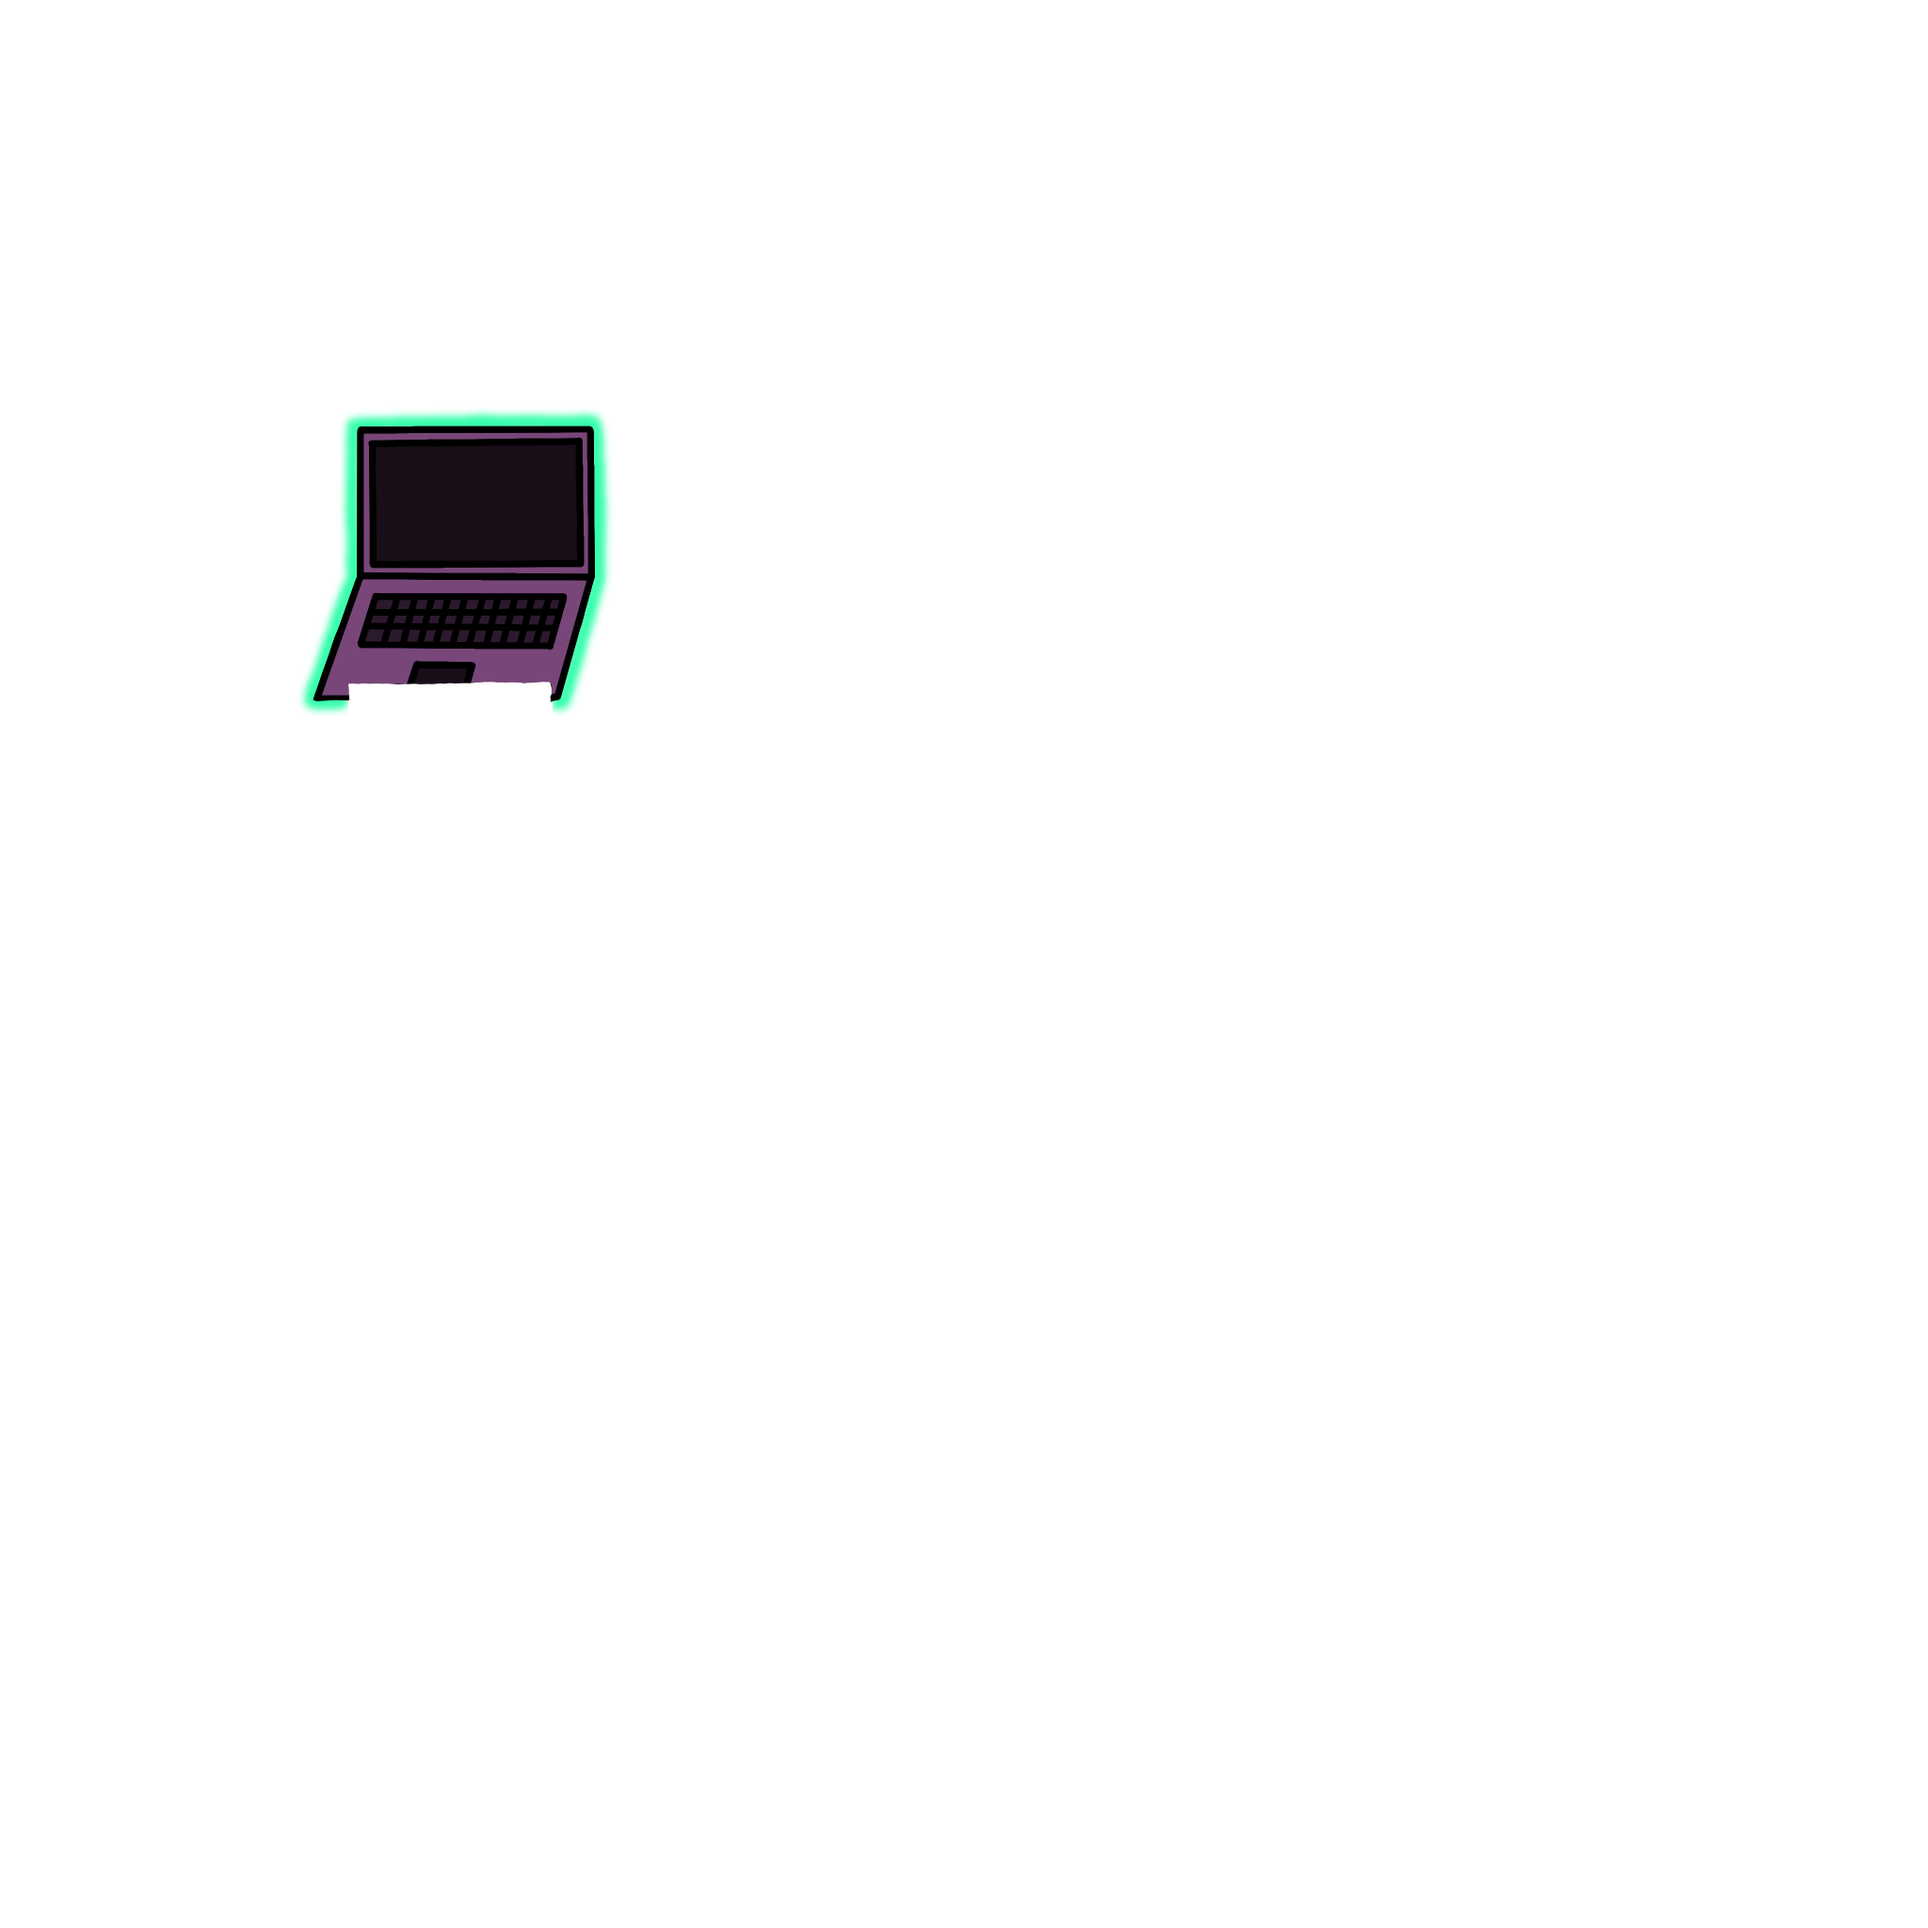
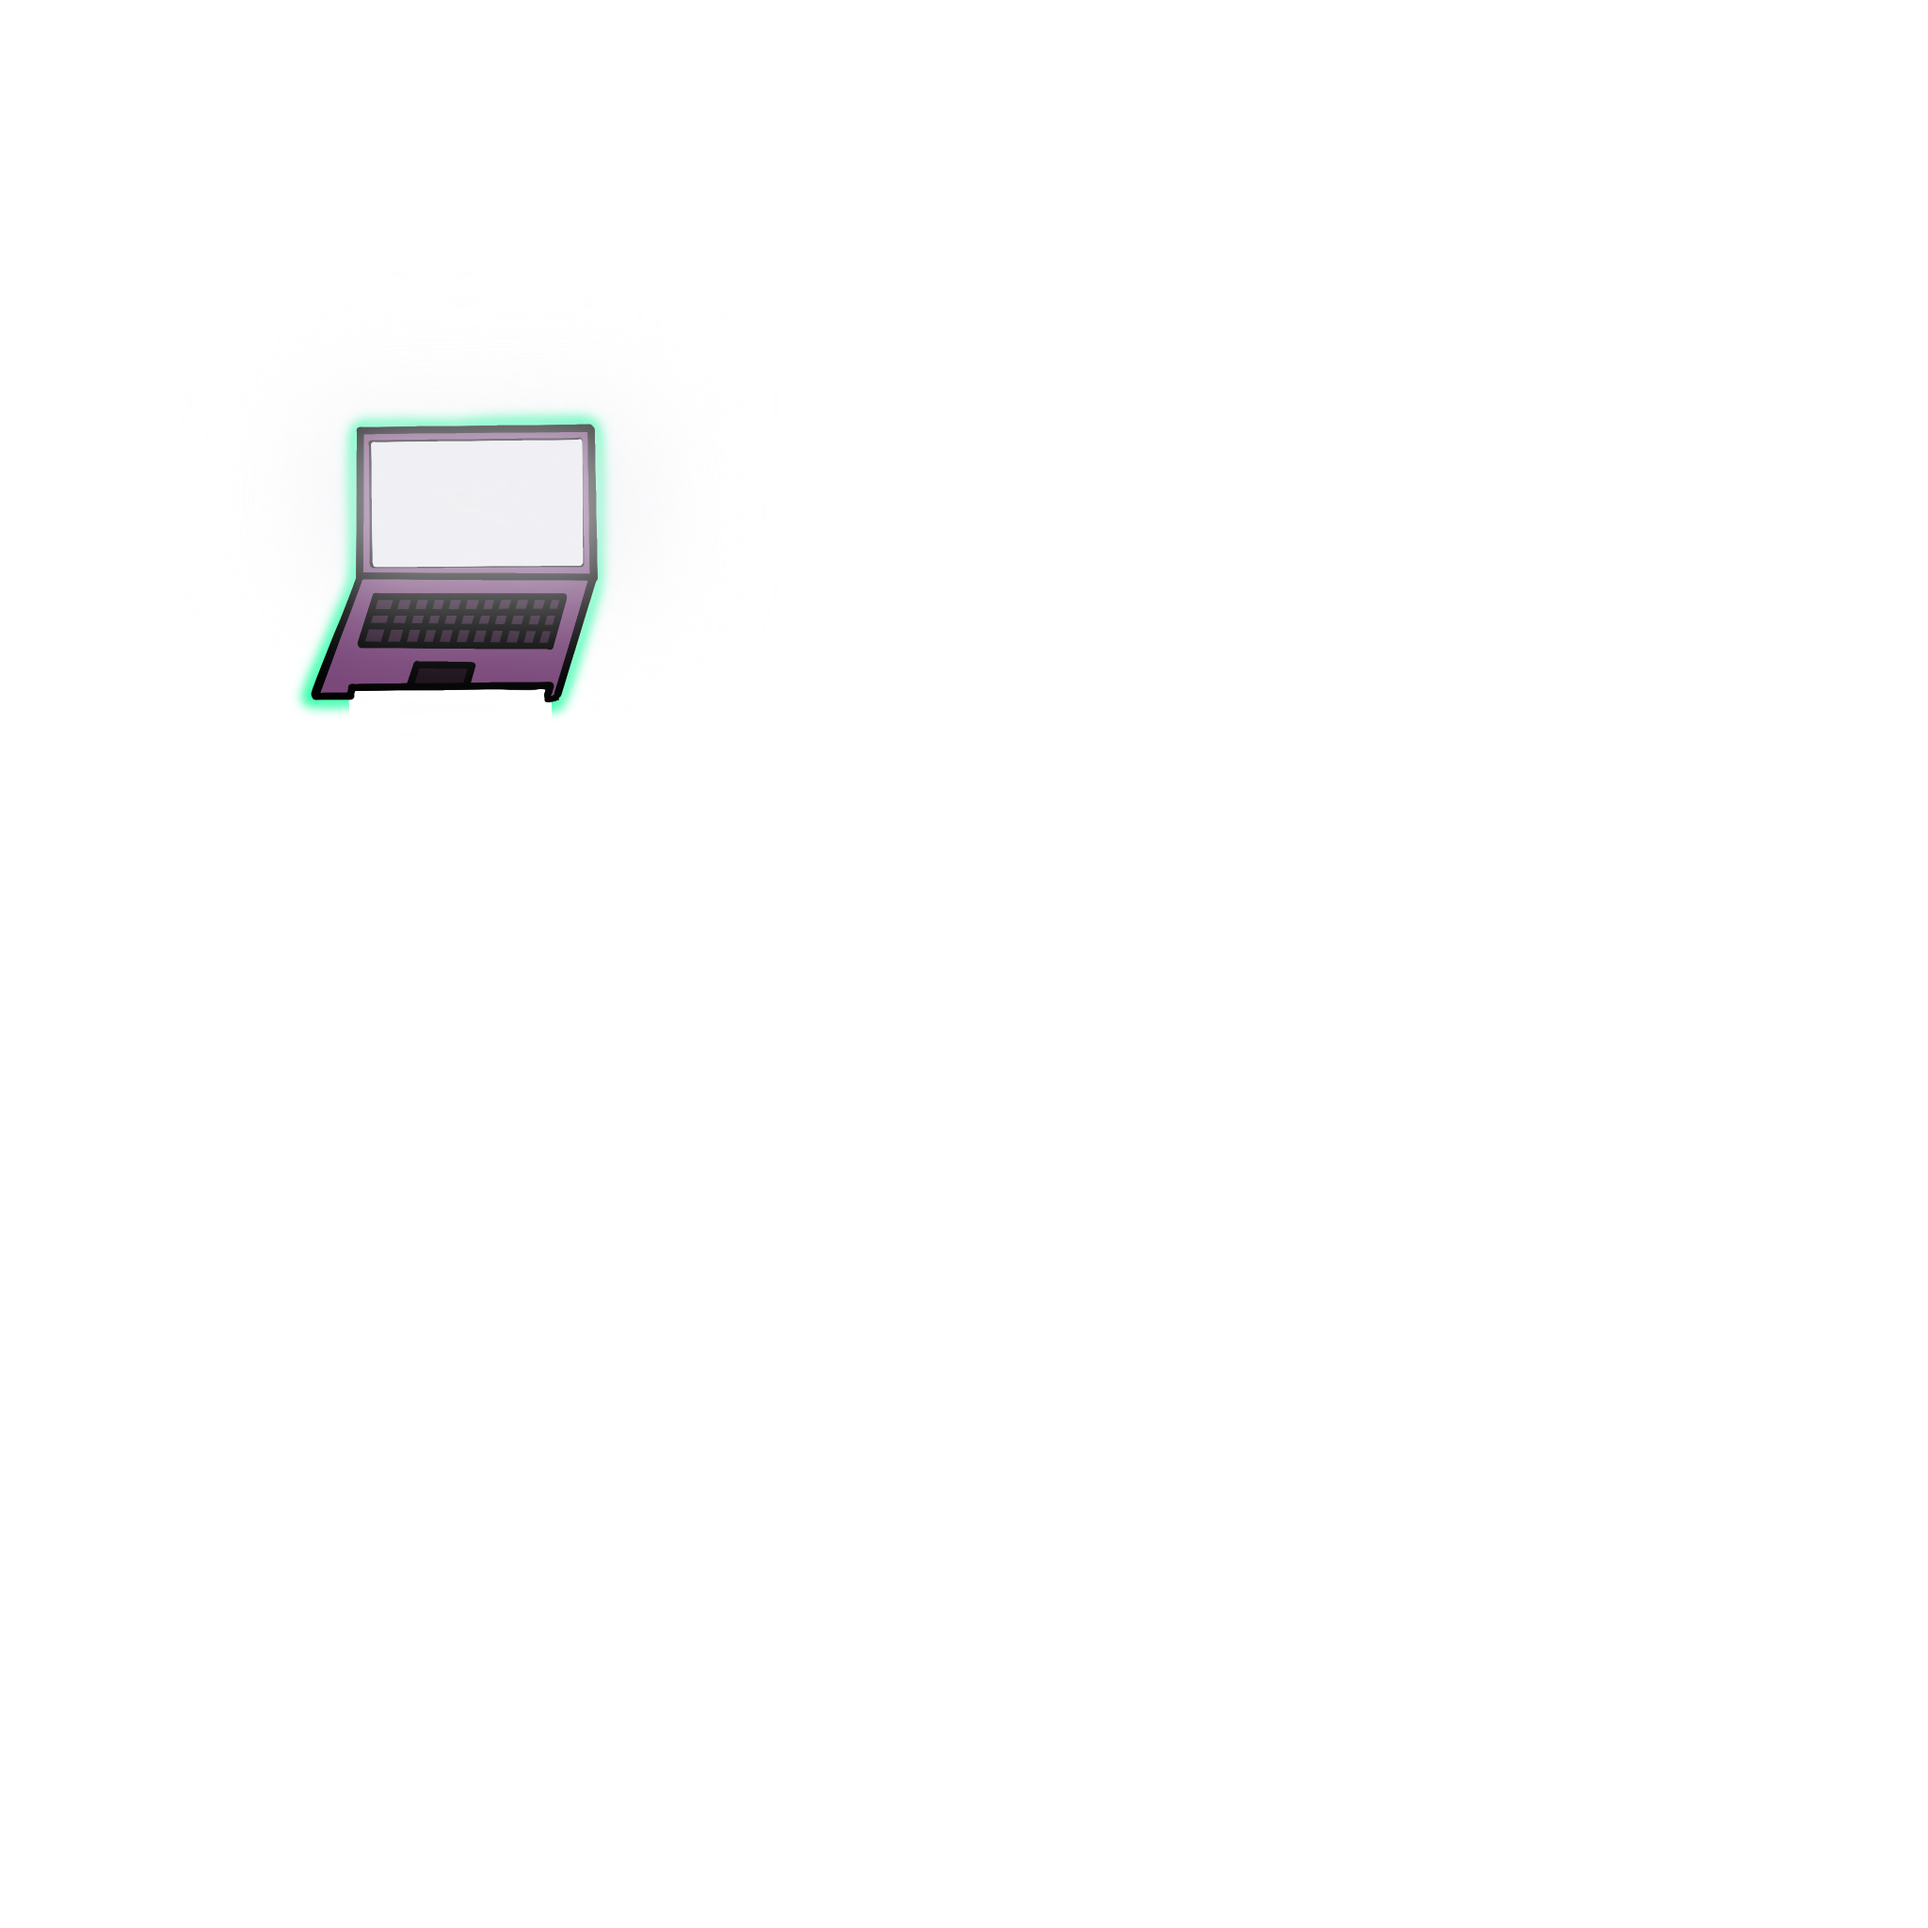
added new active images, add laptop glow back, all movement is correct

Changed region(s): [[0.1562, 0.1875, 0.3125, 0.375]]

diff --git a/sketch.js b/sketch.js
@@ -48,37 +48,40 @@ let toggleDirection;
 
 let previousAction;
 
+let activeAction;
+
 function preload() {
-    dayImg = loadImage('img/day.PNG');
-    nightImg = loadImage('img/night.PNG');
+    dayImg = loadImage('img/day1.PNG');
+    nightImg = loadImage('img/night1.PNG');
     computerDayImg = loadImage('img/ComputerDay.PNG');
-    computerDayHoverImg = loadImage('img/ComputerDayHover.PNG');
     bedDayImg = loadImage('img/BedDay.PNG');
-    bedDayHoverImg = loadImage('img/BedDayHover.PNG');
     fridgeDayImg = loadImage('img/fridgeDay.PNG');
-    fridgeDayHoverImg = loadImage('img/fridgeDayHover.PNG');
     showerDayImg = loadImage('img/showerDay.PNG');
-    showerDayHoverImg = loadImage('img/showerDayHover.PNG');
     doorDayImg = loadImage('img/doorDay.PNG');
-    doorDayHoverImg = loadImage('img/doorDayHover.PNG');
 
     //night 
     computerNightImg = loadImage('img/laptopNight.PNG');
-    computerNightHoverImg = loadImage('img/laptopNightHover.PNG');
     bedNightImg = loadImage('img/bedNight.PNG');
-    bedNightHoverImg = loadImage('img/bedNightHover.PNG');
     fridgeNightImg = loadImage('img/fridgeNight.PNG');
-    fridgeNightHoverImg = loadImage('img/fridgeNightHover.PNG');
     showerNightImg = loadImage('img/showerNight.PNG');
-    showerNightHoverImg = loadImage('img/showerNightHover.PNG');
     doorNightImg = loadImage('img/doorNight.PNG');
-    doorNightHoverImg = loadImage('img/doorNightHover.PNG');
 
     // character 
     duckFront = loadImage('img/duckFront.PNG');
     duckLeft = loadImage('img/duckLeft.PNG');
     duckRight = loadImage('img/duckRight.PNG');
     duckBack = loadImage('img/duckBack.PNG');
+
+    // active 
+    socialActiveImgNight = loadImage('img/socialActiveNight.PNG');
+    socialActiveImgDay = loadImage('img/socialActiveDay.PNG');
+    bedActiveImgNight =loadImage('img/bedActiveNight.PNG');
+    bedActiveImgDay = loadImage('img/bedActiveDay.PNG');
+    fridgeActiveImgDay = loadImage('img/fridgeActiveDay.PNG');
+    fridgeActiveImgNight = loadImage('img/fridgeActiveNight.PNG');
+    laptopActiveImgDay = loadImage('img/laptopActiveDay.PNG');
+    laptopActiveImgNight = loadImage('img/laptopActiveNight.PNG');
+    
 }
 
 
@@ -123,7 +126,7 @@ function setup() {
     fridgeDuckX = 314;
     fridgeDuckY = 260;
     doorDuckX = 494;
-    doorDuckY = 696;
+    doorDuckY = 632;
 
     isMoving = false;
 
@@ -136,6 +139,8 @@ function setup() {
 
     previousAction = 0;
 
+    activeAction = 0;
+
 }
 
 // draw function 
@@ -146,6 +151,8 @@ function draw() {
     image(dayImg, 0, 0, 700, 700);
     tint(255, 0 + opacityPerc); // Invert tint for the second image
     image(nightImg, 0, 0, 700, 700);
+
+    displayActiveActionImgBehind()
 
     noTint();
     image(computerDayImg, 0, 0, 700, 700);
@@ -161,7 +168,20 @@ function draw() {
     image(showerNightImg, 0, 0, 700, 700);
     image(doorNightImg, 0, 0, 700, 700);
 
-    drawDuck();
+    console.log(activeAction);
+
+    if((activeAction === 1) && ((duckXCoord !== bedDuckX) || (duckYCoord !== bedDuckY))) {
+        drawDuck();
+    } else if ((activeAction === 3) && ((duckXCoord !== laptopDuckX) || (duckYCoord !== laptopDuckY))) {
+        drawDuck();
+    } else if ((activeAction === 2) && ((duckXCoord !== doorDuckX) || (duckYCoord !== doorDuckY))) {
+        drawDuck();
+    } else if ((activeAction === 5) && ((duckXCoord !== showerDuckX) || (duckYCoord !== showerDuckY))) {
+        drawDuck(); 
+    } else if ((activeAction === 0) || (activeAction === 4)){
+        drawDuck();
+    }
+    
     
     noTint();
     image(bedDayImg, 0, 0, 700, 700);
@@ -170,6 +190,8 @@ function draw() {
     tint(255, 0 + opacityPerc);
     image(bedNightImg, 0, 0, 700, 700);
     image(doorNightImg, 0, 0, 700, 700);
+
+    displayActiveActionImgFront()
 
     passTime();
 
@@ -187,7 +209,7 @@ function draw() {
 
     increaseStats();
 
-    console.log(duckXCoord + " " + duckYCoord);
+    //console.log(duckXCoord + " " + duckYCoord);
 
 }
 
@@ -216,7 +238,7 @@ function passTime() {
 
 function mouseClicked() {
 
-    console.log(200 - bedNeedHeight);
+    //.log(200 - bedNeedHeight);
 
     // objects 
     if(((mouseX >= 0) && (mouseX <= 451)) && ((mouseY >=476) && (mouseY <= 700))) {
@@ -230,7 +252,7 @@ function mouseClicked() {
 
         numberOfClicks = numberOfClicks + 1;
 
-        console.log(notificationArray[0]);
+        //console.log(notificationArray[0]);
 
         //console.log(notificationArray);
         //console.log(previousEndTime);
@@ -498,7 +520,7 @@ function moveDuck() {
     
             function moveDuckFromDoor() {
             
-            console.log("CALLED");
+            //console.log("CALLED");
             
             toggleDirection = 1;
 
@@ -528,8 +550,8 @@ function moveDuck() {
 }
      
 
-    console.log(previousAction);
-    console.log(isMoving);
+    //console.log(previousAction);
+    //console.log(isMoving);
     
 }
 
@@ -537,9 +559,12 @@ function makeFirstNotificationActive() {
 
     if(notificationArray.length > 0) {
         notificationArray[0].active = true;
+        activeAction = notificationArray[0].type;
         toMoveX = notificationArray[0].XCoord;
         toMoveY = notificationArray[0].YCoord;
     
+    } else {
+        activeAction = 0;
     }
 
     if(notificationArray.length > 0) {
@@ -547,6 +572,7 @@ function makeFirstNotificationActive() {
     } else {
         isMoving = false;
     }
+
     
 }
 
@@ -556,13 +582,13 @@ function moveDuckXAxis() {
             if(duckXCoord >= toMoveX) {
                 duckXCoord = duckXCoord - 4;
                 duckDirection = 'left';
-                console.log("left being called");
+                //console.log("left being called");
             }
         } else if (duckXCoord <= toMoveX) {
             if(duckXCoord <= toMoveX) {
                 duckXCoord = duckXCoord + 4;
                 duckDirection = 'right';
-                console.log("right being called");
+                //console.log("right being called");
             }
         }
     }
@@ -685,6 +711,47 @@ function increaseStats() {
 
     }
 
-    console.log(bedNeedHeight);
+    //console.log(bedNeedHeight);
+}
+
+
+function displayActiveActionImgBehind() {
+
+    if((activeAction === 2) && (duckXCoord === doorDuckX) && (duckYCoord === doorDuckY)) {
+        console.log("door active");
+        noTint();
+        image(socialActiveImgDay, 0, 0, 700, 700);
+
+        tint(255, 0 + opacityPerc);
+        image(socialActiveImgNight, 0, 0, 700, 700);
+
+    }
+
+}
+
+function displayActiveActionImgFront() {
+    if((activeAction === 1) && (duckXCoord === bedDuckX) && (duckYCoord === bedDuckY)) {
+        noTint();
+        image(bedActiveImgDay, 0, 0, 700, 700);
+
+        tint(255, 0 + opacityPerc);
+        image(bedActiveImgNight, 0, 0, 700, 700);
+    }
+
+    if((activeAction === 3) && (duckXCoord === laptopDuckX) && (duckYCoord === laptopDuckY)) {
+        noTint();
+        image(laptopActiveImgDay, 0, 0, 700, 700);
+
+        tint(255, 0 + opacityPerc);
+        image(laptopActiveImgNight, 0, 0, 700, 700);
+    }
+
+    if((activeAction === 4) && (duckXCoord === fridgeDuckX) && (duckYCoord === fridgeDuckY)) {
+        noTint();
+        image(fridgeActiveImgDay, 0, 0, 700, 700);
+
+        tint(255, 0 + opacityPerc);
+        image(fridgeActiveImgNight, 0, 0, 700, 700);
+    }
 }
 
